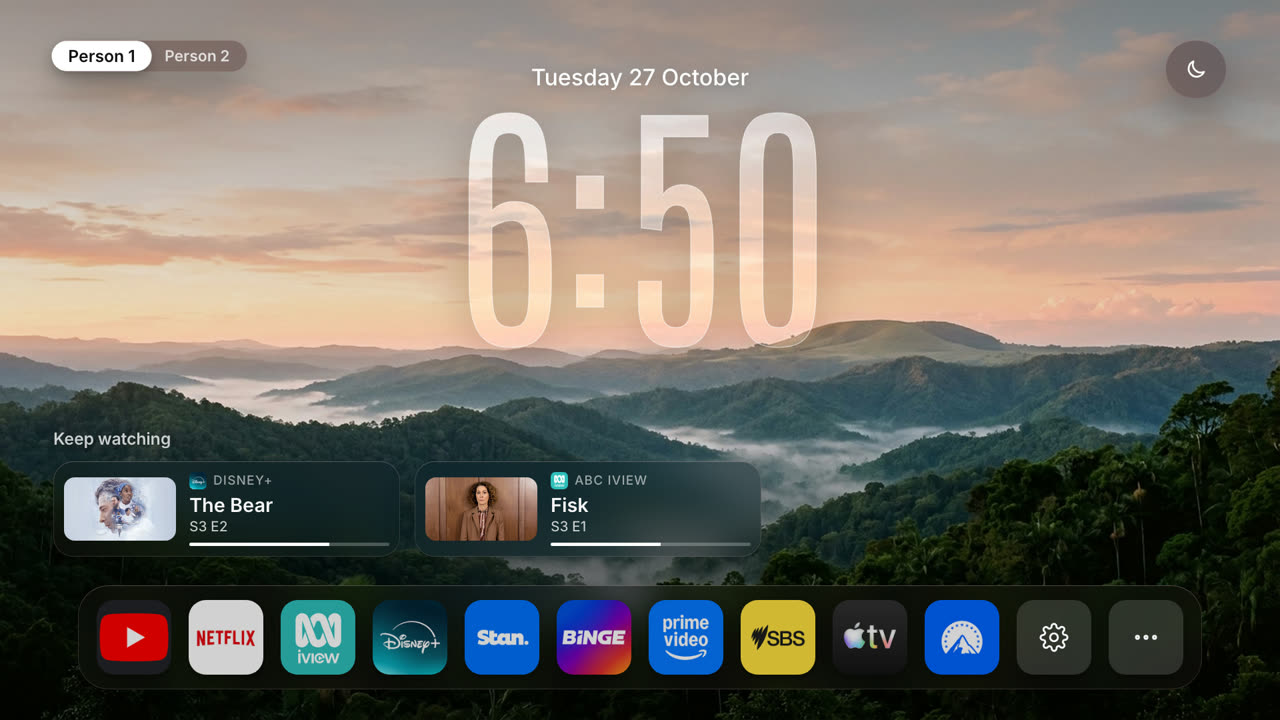
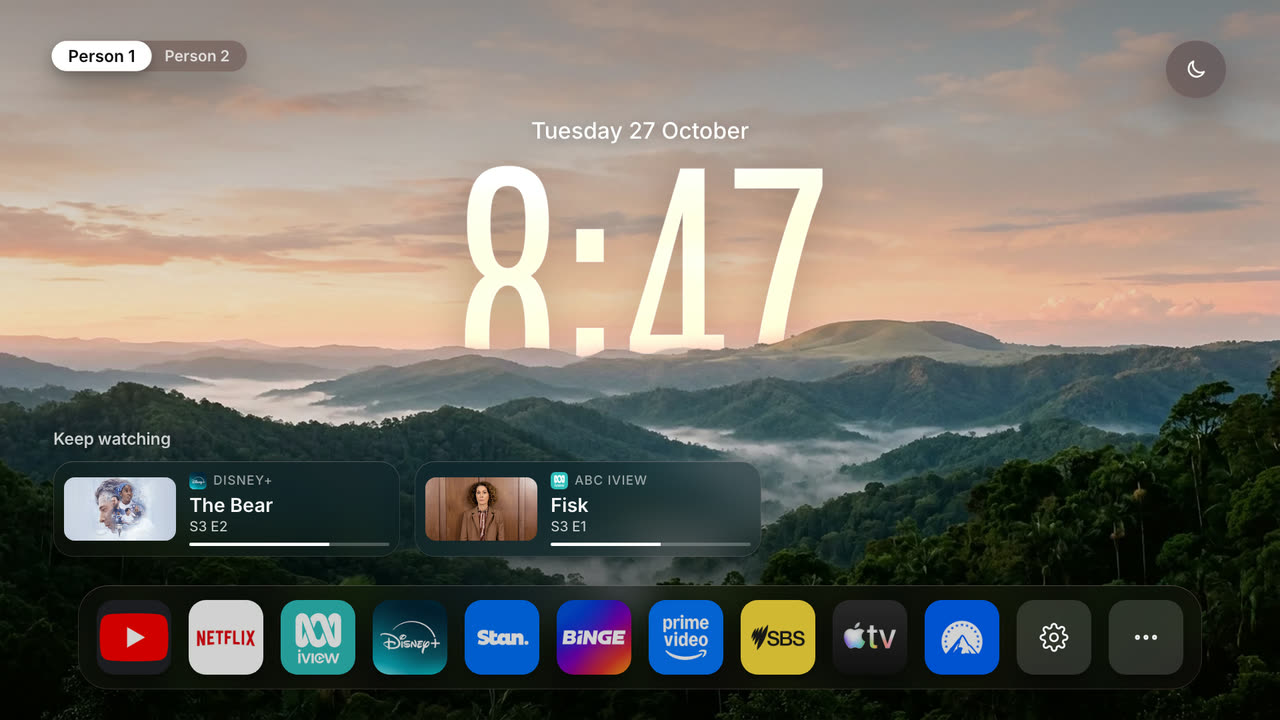
Home scenes: clock sits behind the scenery, water reflection
Each scene gets a foreground cut-out and a frosted glass copy, the water
scene's clock sits on the waterline with a blurred reflection below, and
every clock is placed per scene. New README screenshots.

Claude-Session: https://claude.ai/code/session_011NyxemxZMHmRFE1M2bSsMT

Changed region(s): [[0.3438, 0.1528, 0.6562, 0.4889], [0.4062, 0.0917, 0.5938, 0.1222]]

diff --git a/tv-home/web/app.css b/tv-home/web/app.css
@@ -253,22 +253,23 @@ body {
 .s-night .sbg, .s-night .fg { filter: brightness(0.86); }
 .s-night .gclock .fill { filter: brightness(1.15) saturate(1.2); opacity: 0.9; }
 .s-night .gclock .rim { color: rgba(255, 200, 215, 0.06); -webkit-text-stroke-color: rgba(255, 215, 225, 0.5); }
-/* 1 Golden hour: higher and a little smaller, behind the volcano */
-.s-golden .gclock { top: 6.5rem; font-size: 24.375rem; }
-/* 2 Waterline: the clock sits on the water; the half under it is blurred like a reflection */
+/* 1 Golden hour: a little smaller, low enough for the volcano's tip to rise into the digits */
+.s-golden .gclock { top: 9.5rem; font-size: 24.375rem; }
+/* 2 Waterline: the clock sits on the water (app.js water: the underside of the surface); the part
+   under it is blurred like a reflection */
 .s-water .shade { background: linear-gradient(180deg, rgba(0, 12, 24, 0.42) 0%, rgba(0, 12, 24, 0.12) 40%, rgba(0, 0, 0, 0) 52%, rgba(0, 20, 40, 0.5) 100%); }
-.s-water .gclock { top: 14.875rem; font-size: 26.25rem; filter: drop-shadow(0 0.5rem 1.875rem rgba(0, 20, 40, 0.35)); }
+.s-water .gclock { top: 16.75rem; font-size: 26.25rem; filter: drop-shadow(0 0.5rem 1.875rem rgba(0, 20, 40, 0.35)); }
 .s-water .gclock.under { filter: blur(0.1375rem); opacity: 0.78; transform: translateX(0.3125rem); }
 .s-water .gclock.under .fill { filter: hue-rotate(-8deg) saturate(1.4); }
 .s-water .gclock.under .rim { -webkit-text-stroke-color: rgba(170, 240, 255, 0.5); }
-/* 3 Fog: a big dark clock on the left, inside the mist */
-.s-fog .gclock { left: 6rem; right: auto; top: 12.25rem; font-size: 29.375rem; text-align: left; filter: none; }
+/* 3 Fog: a big dark clock on the left, sinking into the misty hills */
+.s-fog .gclock { left: 6rem; right: auto; top: 10.75rem; font-size: 29.375rem; text-align: left; filter: none; }
 .s-fog .gclock .fill { filter: brightness(0.46) saturate(0.8) contrast(1.1); opacity: 0.8; }
 .s-fog .gclock .rim { color: transparent; -webkit-text-stroke-color: rgba(255, 255, 255, 0.6); }
 .s-fog .gclock .sheen { display: none; }
-/* 5 Rainforest dawn: warm light at the top */
+/* 5 Rainforest dawn: warm light at the top, the clock low enough for the ridges to cross it */
 .s-dawn .shade { background: linear-gradient(180deg, rgba(50, 28, 12, 0.42) 0%, rgba(50, 28, 12, 0) 55%); }
-.s-dawn .gclock { filter: drop-shadow(0 0.5rem 2.125rem rgba(60, 30, 10, 0.3)); }
+.s-dawn .gclock { top: 14.375rem; filter: drop-shadow(0 0.5rem 2.125rem rgba(60, 30, 10, 0.3)); }
 
 /* glass, as on the lock screen */
 .theme-night .people, .theme-night .qbtn, .theme-night .grid, .theme-night .ncard {
@@ -286,9 +287,10 @@ body {
 .theme-night .date.swap { opacity: 0; }
 .scene-night .date { color: rgba(255, 232, 238, 0.92); }
 .scene-night .date .wx { color: rgba(255, 232, 238, 0.78); }
-.scene-golden .date { top: 3.625rem; }
-.scene-water .date { top: 11.625rem; }
-.scene-fog .date { left: 6.5rem; right: auto; top: 8.75rem; text-align: left; color: #16201d; text-shadow: none; }
+.scene-golden .date { top: 6.625rem; }
+.scene-water .date { top: 13.5rem; }
+.scene-dawn .date { top: 11rem; }
+.scene-fog .date { left: 6.5rem; right: auto; top: 7.25rem; text-align: left; color: #16201d; text-shadow: none; }
 .scene-fog .date .wx { color: rgba(22, 32, 29, 0.72); }
 .theme-night .date svg { width: 1.875rem; height: 1.875rem; vertical-align: -0.3rem; margin: 0 0.4rem 0 1rem;
   fill: none; stroke: currentColor; stroke-width: 1.7; stroke-linecap: round; stroke-linejoin: round; }

diff --git a/tv-home/web/app.js b/tv-home/web/app.js
@@ -285,16 +285,23 @@
   // a big glass clock and (most) a cut-out of the photo that stands in front of the clock. The clock's
   // fill is the frosted copy of the photo exactly behind each digit, so it is re-aligned whenever the
   // time changes or a scene is about to show. Only the scene showing and the next one are drawn.
-  // Files: backgrounds/<photo>.jpg (and optionally -fg.webp).
+  // Files: backgrounds/<photo>.jpg, and optionally <photo>-glass.jpg and <photo>-fg.webp.
   var SCENES = [
     // Photos are the generated scene-*.jpg set in backgrounds/. Drop your own 1920x1080 JPEGs in there
-    // and name them here. A cut-out for the clock to sit behind is optional: set fg: true and add
-    // backgrounds/<photo>-fg.webp (a transparent copy of the foreground).
-    { id: "night", photo: "scene-night", fg: false },
-    { id: "golden", photo: "scene-golden", fg: false },
-    { id: "water", photo: "scene-water", fg: false },
-    { id: "fog", photo: "scene-fog", fg: false },
-    { id: "dawn", photo: "scene-dawn", fg: false }
+    // and name them here. Each one can have:
+    //   fg: true     backgrounds/<photo>-fg.webp, a transparent copy of everything in front of the sky
+    //                (peaks, trees, hills), drawn over the clock so the scenery overlaps its digits
+    //   glass: true  backgrounds/<photo>-glass.jpg, a blurred and brightened copy of the photo used
+    //                as the clock's frosted fill (without it the fill is the photo itself)
+    //   water: 0.55  the waterline, as a share of the screen height: above it the clock is sharp,
+    //                below it a blurred copy shows like a reflection
+    // backgrounds/CREDITS.md says how to make the cut-out and the glass copy for your own photo.
+    // Each scene's clock and date positions are in app.css (.s-<id>, .scene-<id> .date).
+    { id: "night", photo: "scene-night", fg: true, glass: true },
+    { id: "golden", photo: "scene-golden", fg: true, glass: true },
+    { id: "water", photo: "scene-water", fg: false, glass: true, water: 0.55 },   // the underside of the surface
+    { id: "fog", photo: "scene-fog", fg: true, glass: true },
+    { id: "dawn", photo: "scene-dawn", fg: true, glass: true }
   ];
   var SCENE_MS = 20000;
   var scene = 0, sceneEls = [], glassShown = "";
@@ -329,7 +336,7 @@
       var c = cs[k];
       c.innerHTML = '<span class="fill">' + hm + '</span><span class="sheen">' + hm + '</span><span class="rim">' + hm + "</span>";
       var f = c.firstChild;
-      f.style.backgroundImage = "url(backgrounds/" + s.photo + ".jpg)";
+      f.style.backgroundImage = "url(backgrounds/" + s.photo + (s.glass ? "-glass" : "") + ".jpg)";
       f.style.backgroundPosition = -(c.offsetLeft + f.offsetLeft) + "px " + -(c.offsetTop + f.offsetTop) + "px";
     }
     if (s.water) {   // above the waterline sharp, below it the blurred reflection

diff --git a/tv-home/web/backgrounds/CREDITS.md b/tv-home/web/backgrounds/CREDITS.md
@@ -16,3 +16,27 @@ From Wikimedia Commons, used under their Creative Commons licences. Resized and 
 `scene-night.jpg`, `scene-golden.jpg`, `scene-water.jpg`, `scene-fog.jpg` and `scene-dawn.jpg` were
 made for couch-tv with an AI image model from text only (no source photo). They are not real places.
 Use them however you like.
+
+The files that go with them are made from those same generated scenes, so the same terms apply:
+
+- `scene-<name>-fg.webp` (night, golden, fog, dawn): the scenery cut out of the scene, with the
+  sky transparent. It is drawn over the clock, so the peaks, the volcano and the hills overlap the
+  bottom of the digits. The mask came from an AI edit that painted only the sky one flat colour;
+  every pixel you see in the cut-out is the original scene's. The waterline scene has no cut-out:
+  its clock sits on the water instead, with a blurred reflection under the surface.
+- `scene-<name>-glass.jpg`: a blurred, brightened copy of the scene, used as the clock's frosted
+  glass fill.
+
+## Your own photo with the clock behind it
+
+1. Put the photo in this folder as a 1920x1080 JPEG and add it to `SCENES` in `../app.js`.
+2. The cut-out: in any background remover or image editor, delete the sky and keep everything in
+   front of it (mountains, trees, buildings). Export it at the same size as a transparent WebP
+   named `<photo>-fg.webp`, for example `cwebp -q 86 -alpha_q 100 -exact cutout.png -o
+   <photo>-fg.webp`. Keep the edge soft but not blurry, or it shows a light rim over the digits.
+   Then set `fg: true`.
+3. The glass fill (optional): `magick <photo>.jpg -blur 0x16 -modulate 130,125 <photo>-glass.jpg`
+   with ImageMagick, then set `glass: true`.
+4. Move the clock so the scenery covers only the lower part of the digits: `.s-<id> .gclock`
+   (`top`, `font-size`) and `.scene-<id> .date` in `../app.css`. Leave at least the top 60% of
+   every digit clear so the time is easy to read.

diff --git a/README.md b/README.md
@@ -6,9 +6,13 @@ Your own home screen and phone remote for a Google TV. No ads on the home screen
 
 ## Home backgrounds
 
-Five scenes take turns every 20 seconds behind a big glass clock. Your apps and "keep watching"
-stay put. Start on one with `?scene=<name>`, or swap in your own photos (see
-`tv-home/web/backgrounds/CREDITS.md`).
+Five scenes take turns every 20 seconds, each with a big glass clock that sits just behind the
+scenery: the peaks, the volcano and the misty hills overlap the bottom of the digits, and on the
+waterline scene the clock floats on the lake with a blurred reflection under the surface. Your apps
+and "keep watching" stay put. Start on one with `?scene=<name>`, or swap in your own photos. To put
+the clock behind your own photo, make a transparent cut-out of everything in front of the sky
+(any background remover will do), save it next to the photo as `<photo>-fg.webp` and set
+`fg: true`; `tv-home/web/backgrounds/CREDITS.md` has the steps.
 
 | Night | Golden hour | Waterline |
 |---|---|---|
